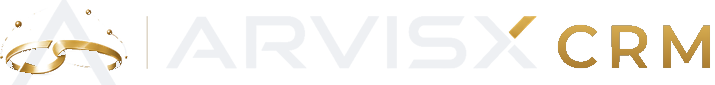
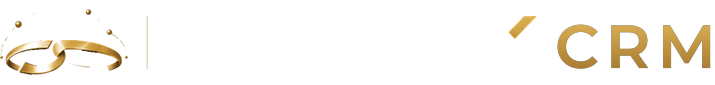
feat(marca): arte oficial para fundo escuro; protótipo de ícones (hoje x propostas)

diff --git a/docs/arvisx/prototipo/telas/icones.html b/docs/arvisx/prototipo/telas/icones.html
@@ -1,0 +1,200 @@
+<!doctype html>
+<html lang="pt-BR">
+<head>
+<meta charset="utf-8">
+<meta name="viewport" content="width=device-width, initial-scale=1">
+<title>Ícones: hoje × propostas</title>
+<meta name="grupo" content="Entrada">
+<meta name="ordem" content="1">
+<link rel="preconnect" href="https://fonts.googleapis.com">
+<link rel="stylesheet" href="https://fonts.googleapis.com/css2?family=Archivo:wdth,wght@100..125,500..800&family=JetBrains+Mono:wght@400;500;600&family=Manrope:wght@400;500;600;700;800&display=swap">
+<link rel="stylesheet" href="https://unpkg.com/@phosphor-icons/web@2.1.1/src/regular/style.css">
+<link rel="stylesheet" href="https://unpkg.com/@phosphor-icons/web@2.1.1/src/fill/style.css">
+<link rel="stylesheet" href="https://unpkg.com/@phosphor-icons/web@2.1.1/src/duotone/style.css">
+<link rel="stylesheet" href="../tokens.css">
+<style>
+  body { padding: 32px; }
+  h1 { font-family: var(--display); font-stretch: 112%; font-weight: 650; letter-spacing: -.03em; font-size: 28px; margin-bottom: 6px; }
+  .intro { color: var(--apoio); max-width: 70ch; margin-bottom: 28px; }
+  .bloco { margin-bottom: 40px; }
+  .bloco > h2 { font-family: var(--display); font-stretch: 108%; font-weight: 620; font-size: 18px; letter-spacing: -.02em; margin-bottom: 4px; }
+  .bloco > p { color: var(--apoio); font-size: 13px; margin-bottom: 14px; max-width: 80ch; }
+  .opcoes { display: grid; grid-template-columns: repeat(auto-fit, minmax(260px, 1fr)); gap: 14px; }
+  .opcao { border: 1px solid var(--linha); border-radius: var(--r-lg); overflow: hidden; background: var(--painel); }
+  .opcao > header { display: flex; align-items: center; gap: 8px; padding: 10px 14px; border-bottom: 1px solid var(--linha); font: 600 10.5px/1 var(--mono); letter-spacing: .12em; text-transform: uppercase; color: var(--apoio); }
+  .opcao > header b { color: var(--navy); font-family: var(--sans); text-transform: none; letter-spacing: 0; font-size: 13px; }
+  .opcao > header .tag { margin-left: auto; }
+  .amostra { padding: 14px; }
+
+  /* menu lateral (fundo navy) */
+  .menu { background: var(--navy); border-radius: 10px; padding: 10px; width: 100%; }
+  .menu .g { font: 500 10.5px/1 var(--mono); letter-spacing: .14em; text-transform: uppercase; color: #6c7586; padding: 6px 10px 8px; }
+  .menu a { display: flex; align-items: center; gap: 10px; height: 32px; padding: 0 10px; border-radius: 6px; color: #aab2c0; font-weight: 500; font-size: 14px; position: relative; }
+  .menu a i { font-size: 18px; }
+  .menu a .cont { margin-left: auto; min-width: 20px; height: 20px; padding: 0 6px; border-radius: 10px; background: var(--sinal); color: #fff; font: 600 11px/20px var(--mono); text-align: center; }
+  .menu a.ativo { background: rgba(212,175,55,.10); color: var(--ouro-claro); }
+  .menu a.ativo::before { content: ""; position: absolute; left: -10px; top: 7px; bottom: 7px; width: 2px; background: var(--ouro); border-radius: 0 2px 2px 0; }
+  /* hoje */
+  .m-hoje a i { color: #7e8797; } .m-hoje a.ativo i { color: var(--ouro); }
+  /* A: ícones claros */
+  .m-a a i { color: #d8dce3; } .m-a a.ativo i { color: var(--ouro); } .m-a a { color: #d8dce3; }
+  /* B: ícones em ouro suave, texto claro */
+  .m-b a i { color: #e9cb62; opacity: .85; } .m-b a.ativo i { color: var(--ouro); opacity: 1; } .m-b a { color: #d8dce3; }
+  /* C: ícone duotone (preenchimento ouro 20%) */
+  .m-c a i { color: #e0bc45; } .m-c a { color: #d8dce3; } .m-c a.ativo i { color: var(--ouro); }
+  .m-c a.ativo { background: rgba(212,175,55,.14); }
+
+  /* cartões de hub (fundo claro) */
+  .hub { display: grid; gap: 10px; }
+  .hubc { display: flex; gap: 12px; padding: 12px; border: 1px solid var(--linha); border-radius: 12px; background: var(--painel); }
+  .hubc .ic { width: 38px; height: 38px; border-radius: 10px; display: grid; place-items: center; font-size: 19px; flex: none; }
+  .hubc h3 { font-size: 14px; font-weight: 700; margin-bottom: 2px; }
+  .hubc p { color: var(--apoio); font-size: 12.5px; line-height: 1.4; }
+  .h-hoje .ic { background: var(--navy); color: var(--ouro); }
+  .h-a .ic { background: var(--ouro-suave); color: var(--ouro-escuro); border: 1px solid #ecd9a0; }
+  .h-b .ic { background: var(--ouro); color: var(--navy); }
+  .h-c .ic { background: #e8f1fb; color: var(--sinal); }
+  .h-c .hubc:nth-child(2) .ic { background: var(--ouro-suave); color: var(--ouro-escuro); }
+  .h-c .hubc:nth-child(3) .ic { background: #e6f4ec; color: var(--ok); }
+
+  /* barra de cima + barra inferior */
+  .topo-mini { display: flex; align-items: center; gap: 4px; padding: 8px 10px; border: 1px solid var(--linha); border-radius: 10px; background: var(--painel); }
+  .topo-mini .ic { width: 36px; height: 36px; border-radius: 6px; display: grid; place-items: center; font-size: 20px; position: relative; }
+  .topo-mini .ic .cont { position: absolute; top: 5px; right: 5px; min-width: 16px; height: 16px; padding: 0 4px; border-radius: 8px; background: var(--sinal); color: #fff; font: 600 10px/16px var(--mono); }
+  .topo-mini .busca { flex: 1; display: flex; align-items: center; gap: 8px; height: 36px; padding: 0 12px; border-radius: 10px; border: 1px solid var(--linha); color: var(--fraco); font-size: 13px; }
+  .t-hoje .ic { color: var(--apoio); } .t-hoje .busca i { color: var(--fraco); }
+  .t-a .ic { color: var(--navy); } .t-a .busca i { color: var(--navy); }
+  .t-b .ic { color: var(--ouro-escuro); } .t-b .busca i { color: var(--ouro-escuro); }
+  .inferior { display: grid; grid-template-columns: repeat(5, 1fr); background: var(--navy); border-radius: 10px; padding: 8px 4px; margin-top: 10px; }
+  .inferior a { display: flex; flex-direction: column; align-items: center; gap: 3px; color: #7e8797; font: 600 10px/1 var(--sans); }
+  .inferior a i { font-size: 22px; }
+  .inferior a.ativo { color: var(--ouro); }
+  .i-a a { color: #d8dce3; } .i-a a.ativo { color: var(--ouro); }
+  .i-b a { color: #c9cfda; } .i-b a i { color: #e9cb62; } .i-b a.ativo { color: var(--ouro); } .i-b a.ativo i { color: var(--ouro); }
+
+  /* ícones de estado nas telas claras (botões, etiquetas, vazios) */
+  .estado { display: flex; flex-wrap: wrap; gap: 8px; align-items: center; }
+  .e-hoje .elo { border-color: var(--ouro); color: var(--ouro-escuro); }
+
+  /* ícone do app */
+  .apps { display: flex; gap: 14px; align-items: flex-end; flex-wrap: wrap; }
+  .app { text-align: center; font: 500 11px/1.4 var(--mono); color: var(--apoio); }
+  .app .q { width: 72px; height: 72px; border-radius: 18px; display: grid; place-items: center; margin: 0 auto 8px; box-shadow: 0 8px 20px -10px rgba(15,19,26,.5); }
+  .app .q img { width: 64px; height: auto; }
+  .app .q svg { width: 52px; height: 52px; }
+</style>
+</head>
+<body>
+  <h1>Ícones: hoje × propostas</h1>
+  <p class="intro">O que o cliente vê de ícone no CRM: menu lateral, barra de cima, barra do celular, cartões dos hubs, ícones de estado nas telas claras e o ícone do app. Em cada bloco, a coluna "hoje" é o que está no ar; as outras são opções. Escolha uma por bloco (pode misturar).</p>
+
+  <section class="bloco">
+    <h2>1. Menu lateral (fundo navy)</h2>
+    <p>Hoje os ícones ficam em cinza-azulado (#7e8797) sobre o navy: somem. As opções clareiam o ícone e deixam o ouro só para o item ativo, ou põem ouro em todos.</p>
+    <div class="opcoes">
+      <div class="opcao"><header><b>Hoje</b><span class="tag">cinza #7e8797</span></header><div class="amostra"><div class="menu m-hoje">
+        <div class="g">Atendimento</div>
+        <a class="ativo"><i class="ph ph-tray"></i>Inbox<span class="cont">3</span></a><a><i class="ph ph-clock-countdown"></i>Radar</a><a><i class="ph ph-calendar-blank"></i>Agenda</a><a><i class="ph ph-file-text"></i>Respostas rápidas</a>
+        <div class="g">CRM</div><a><i class="ph ph-kanban"></i>Funis</a><a><i class="ph ph-users"></i>Contatos</a><a><i class="ph ph-list-checks"></i>Tarefas</a>
+      </div></div></div>
+      <div class="opcao"><header><b>A · Ícones claros</b><span class="tag ouro">recomendada</span></header><div class="amostra"><div class="menu m-a">
+        <div class="g">Atendimento</div>
+        <a class="ativo"><i class="ph-fill ph-tray"></i>Inbox<span class="cont">3</span></a><a><i class="ph ph-clock-countdown"></i>Radar</a><a><i class="ph ph-calendar-blank"></i>Agenda</a><a><i class="ph ph-file-text"></i>Respostas rápidas</a>
+        <div class="g">CRM</div><a><i class="ph ph-kanban"></i>Funis</a><a><i class="ph ph-users"></i>Contatos</a><a><i class="ph ph-list-checks"></i>Tarefas</a>
+      </div></div></div>
+      <div class="opcao"><header><b>B · Ícones em ouro</b><span class="tag">texto claro</span></header><div class="amostra"><div class="menu m-b">
+        <div class="g">Atendimento</div>
+        <a class="ativo"><i class="ph-fill ph-tray"></i>Inbox<span class="cont">3</span></a><a><i class="ph ph-clock-countdown"></i>Radar</a><a><i class="ph ph-calendar-blank"></i>Agenda</a><a><i class="ph ph-file-text"></i>Respostas rápidas</a>
+        <div class="g">CRM</div><a><i class="ph ph-kanban"></i>Funis</a><a><i class="ph ph-users"></i>Contatos</a><a><i class="ph ph-list-checks"></i>Tarefas</a>
+      </div></div></div>
+      <div class="opcao"><header><b>C · Duotone em ouro</b><span class="tag">traço + fundo 20%</span></header><div class="amostra"><div class="menu m-c">
+        <div class="g">Atendimento</div>
+        <a class="ativo"><i class="ph-duotone ph-tray"></i>Inbox<span class="cont">3</span></a><a><i class="ph-duotone ph-clock-countdown"></i>Radar</a><a><i class="ph-duotone ph-calendar-blank"></i>Agenda</a><a><i class="ph-duotone ph-file-text"></i>Respostas rápidas</a>
+        <div class="g">CRM</div><a><i class="ph-duotone ph-kanban"></i>Funis</a><a><i class="ph-duotone ph-users"></i>Contatos</a><a><i class="ph-duotone ph-list-checks"></i>Tarefas</a>
+      </div></div></div>
+    </div>
+  </section>
+
+  <section class="bloco">
+    <h2>2. Cartões dos hubs (Ver tudo em CRM / IA / Análise / Configurações)</h2>
+    <p>Hoje cada cartão tem uma caixa navy com o ícone em ouro: pesa na tela clara. As opções clareiam a caixa.</p>
+    <div class="opcoes">
+      <div class="opcao"><header><b>Hoje</b><span class="tag">caixa navy</span></header><div class="amostra hub h-hoje">
+        <div class="hubc"><span class="ic"><i class="ph ph-kanban"></i></span><div><h3>Funis</h3><p>Seus funis de venda — clique em um para abrir o quadro de clientes.</p></div></div>
+        <div class="hubc"><span class="ic"><i class="ph ph-robot"></i></span><div><h3>Agentes</h3><p>Quem atende por você: instruções, modelo, ferramentas e publicação.</p></div></div>
+        <div class="hubc"><span class="ic"><i class="ph ph-chart-bar"></i></span><div><h3>Desempenho</h3><p>Funil e performance por atendente nos últimos 30 dias.</p></div></div>
+      </div></div>
+      <div class="opcao"><header><b>A · Caixa ouro-suave</b><span class="tag ouro">recomendada</span></header><div class="amostra hub h-a">
+        <div class="hubc"><span class="ic"><i class="ph ph-kanban"></i></span><div><h3>Funis</h3><p>Seus funis de venda — clique em um para abrir o quadro de clientes.</p></div></div>
+        <div class="hubc"><span class="ic"><i class="ph ph-robot"></i></span><div><h3>Agentes</h3><p>Quem atende por você: instruções, modelo, ferramentas e publicação.</p></div></div>
+        <div class="hubc"><span class="ic"><i class="ph ph-chart-bar"></i></span><div><h3>Desempenho</h3><p>Funil e performance por atendente nos últimos 30 dias.</p></div></div>
+      </div></div>
+      <div class="opcao"><header><b>B · Caixa ouro cheio</b><span class="tag">ícone navy</span></header><div class="amostra hub h-b">
+        <div class="hubc"><span class="ic"><i class="ph ph-kanban"></i></span><div><h3>Funis</h3><p>Seus funis de venda — clique em um para abrir o quadro de clientes.</p></div></div>
+        <div class="hubc"><span class="ic"><i class="ph ph-robot"></i></span><div><h3>Agentes</h3><p>Quem atende por você: instruções, modelo, ferramentas e publicação.</p></div></div>
+        <div class="hubc"><span class="ic"><i class="ph ph-chart-bar"></i></span><div><h3>Desempenho</h3><p>Funil e performance por atendente nos últimos 30 dias.</p></div></div>
+      </div></div>
+      <div class="opcao"><header><b>C · Cor por grupo</b><span class="tag">azul CRM · ouro IA · verde análise</span></header><div class="amostra hub h-c">
+        <div class="hubc"><span class="ic"><i class="ph ph-kanban"></i></span><div><h3>Funis</h3><p>Seus funis de venda — clique em um para abrir o quadro de clientes.</p></div></div>
+        <div class="hubc"><span class="ic"><i class="ph ph-robot"></i></span><div><h3>Agentes</h3><p>Quem atende por você: instruções, modelo, ferramentas e publicação.</p></div></div>
+        <div class="hubc"><span class="ic"><i class="ph ph-chart-bar"></i></span><div><h3>Desempenho</h3><p>Funil e performance por atendente nos últimos 30 dias.</p></div></div>
+      </div></div>
+    </div>
+  </section>
+
+  <section class="bloco">
+    <h2>3. Barra de cima e barra do celular</h2>
+    <p>Sino, idioma, tema, lupa e as abas de baixo. Hoje ficam em cinza médio.</p>
+    <div class="opcoes">
+      <div class="opcao"><header><b>Hoje</b></header><div class="amostra">
+        <div class="topo-mini t-hoje"><span class="busca"><i class="ph ph-magnifying-glass"></i>Buscar...</span><span class="ic"><i class="ph ph-bell"></i><span class="cont">4</span></span><span class="ic" style="font:700 11.5px var(--mono)">PT</span><span class="ic"><i class="ph ph-sun"></i></span></div>
+        <div class="inferior i-hoje"><a class="ativo"><i class="ph-fill ph-tray"></i>Inbox</a><a><i class="ph ph-kanban"></i>Funis</a><a><i class="ph ph-calendar-blank"></i>Agenda</a><a><i class="ph ph-chart-bar"></i>Desempenho</a><a><i class="ph ph-dots-three-outline"></i>Mais</a></div>
+      </div></div>
+      <div class="opcao"><header><b>A · Navy em cima, claro embaixo</b><span class="tag ouro">recomendada</span></header><div class="amostra">
+        <div class="topo-mini t-a"><span class="busca"><i class="ph ph-magnifying-glass"></i>Buscar...</span><span class="ic"><i class="ph ph-bell"></i><span class="cont">4</span></span><span class="ic" style="font:700 11.5px var(--mono)">PT</span><span class="ic"><i class="ph ph-sun"></i></span></div>
+        <div class="inferior i-a"><a class="ativo"><i class="ph-fill ph-tray"></i>Inbox</a><a><i class="ph ph-kanban"></i>Funis</a><a><i class="ph ph-calendar-blank"></i>Agenda</a><a><i class="ph ph-chart-bar"></i>Desempenho</a><a><i class="ph ph-dots-three-outline"></i>Mais</a></div>
+      </div></div>
+      <div class="opcao"><header><b>B · Ouro em cima e embaixo</b></header><div class="amostra">
+        <div class="topo-mini t-b"><span class="busca"><i class="ph ph-magnifying-glass"></i>Buscar...</span><span class="ic"><i class="ph ph-bell"></i><span class="cont">4</span></span><span class="ic" style="font:700 11.5px var(--mono)">PT</span><span class="ic"><i class="ph ph-sun"></i></span></div>
+        <div class="inferior i-b"><a class="ativo"><i class="ph-fill ph-tray"></i>Inbox</a><a><i class="ph ph-kanban"></i>Funis</a><a><i class="ph ph-calendar-blank"></i>Agenda</a><a><i class="ph ph-chart-bar"></i>Desempenho</a><a><i class="ph ph-dots-three-outline"></i>Mais</a></div>
+      </div></div>
+    </div>
+  </section>
+
+  <section class="bloco">
+    <h2>4. Ícones nas telas claras (botões, etiquetas, estados vazios, IA)</h2>
+    <p>Nas telas claras os ícones já acompanham a cor do texto. O que muda é o peso: regular (hoje) ou "duotone" com fundo ouro nos ícones de IA e de estado.</p>
+    <div class="opcoes">
+      <div class="opcao"><header><b>Hoje</b><span class="tag">regular, cor do texto</span></header><div class="amostra estado e-hoje">
+        <button class="btn primario"><i class="ph ph-plus"></i>Novo contato</button><button class="btn secundario"><i class="ph ph-upload-simple"></i>Importar CSV</button>
+        <span class="tag ouro"><i class="ph ph-robot"></i>Agente</span><span class="tag ok"><i class="ph ph-check-circle"></i>Conectado</span><span class="tag aviso"><i class="ph ph-thermometer-cold"></i>Esfriando</span>
+        <span class="avatar ia"><i class="ph ph-robot"></i></span>
+        <div class="vazio" style="padding:12px 0 0;flex-basis:100%"><div class="elo"><i class="ph ph-chat-circle"></i></div></div>
+      </div></div>
+      <div class="opcao"><header><b>A · Duotone nos ícones de IA e estado</b><span class="tag ouro">recomendada</span></header><div class="amostra estado">
+        <button class="btn primario"><i class="ph ph-plus"></i>Novo contato</button><button class="btn secundario"><i class="ph ph-upload-simple"></i>Importar CSV</button>
+        <span class="tag ouro"><i class="ph-duotone ph-robot"></i>Agente</span><span class="tag ok"><i class="ph-duotone ph-check-circle"></i>Conectado</span><span class="tag aviso"><i class="ph-duotone ph-thermometer-cold"></i>Esfriando</span>
+        <span class="avatar ia"><i class="ph-duotone ph-robot"></i></span>
+        <div class="vazio" style="padding:12px 0 0;flex-basis:100%"><div class="elo" style="background:var(--ouro-suave)"><i class="ph-duotone ph-chat-circle"></i></div></div>
+      </div></div>
+      <div class="opcao"><header><b>B · Preenchidos (fill)</b></header><div class="amostra estado">
+        <button class="btn primario"><i class="ph-fill ph-plus-circle"></i>Novo contato</button><button class="btn secundario"><i class="ph-fill ph-upload-simple"></i>Importar CSV</button>
+        <span class="tag ouro"><i class="ph-fill ph-robot"></i>Agente</span><span class="tag ok"><i class="ph-fill ph-check-circle"></i>Conectado</span><span class="tag aviso"><i class="ph-fill ph-thermometer-cold"></i>Esfriando</span>
+        <span class="avatar ia"><i class="ph-fill ph-robot"></i></span>
+        <div class="vazio" style="padding:12px 0 0;flex-basis:100%"><div class="elo"><i class="ph-fill ph-chat-circle"></i></div></div>
+      </div></div>
+    </div>
+  </section>
+
+  <section class="bloco">
+    <h2>5. Ícone do app (celular, aba do navegador)</h2>
+    <p>Hoje o favicon é o "A" desenhado em vetor sobre fundo claro. Opções com o símbolo oficial.</p>
+    <div class="apps">
+      <div class="app"><div class="q" style="background:#f7f6f2;border:1px solid var(--linha)"><svg viewBox="0 0 216 216"><path fill="#0f131a" fill-rule="evenodd" d="M108 10L198 206H156L140 170H76L60 206H18Z M108 78L84 134H132Z"/><path fill="#d4af37" fill-rule="evenodd" d="M70 120c-38 0-68 13-68 30s30 30 68 30 68-13 68-30-30-30-68-30Zm0 13c30 0 53 8 53 17s-23 17-53 17-53-8-53-17 23-17 53-17ZM146 130c-38 0-68 13-68 30s30 30 68 30 68-13 68-30-30-30-68-30Zm0 13c30 0 53 8 53 17s-23 17-53 17-53-8-53-17 23-17 53-17Z"/></svg></div>hoje · vetor</div>
+      <div class="app"><div class="q" style="background:#0f131a"><img src="../marca/arvisx-simbolo-oficial-escuro.png" alt=""></div>A · navy</div>
+      <div class="app"><div class="q" style="background:#d4af37"><img src="../marca/arvisx-simbolo-oficial.png" alt=""></div>B · ouro</div>
+      <div class="app"><div class="q" style="background:#f7f6f2;border:1px solid var(--linha)"><img src="../marca/arvisx-simbolo-oficial.png" alt=""></div>C · claro</div>
+    </div>
+  </section>
+</body>
+</html>

diff --git a/docs/arvisx/prototipo/index.html b/docs/arvisx/prototipo/index.html
@@ -40,11 +40,12 @@
   <div class="cab">
     <div style="display:flex;align-items:center;gap:10px;margin-bottom:12px"><img src="marca/arvisx-simbolo-branco.png" alt="" style="height:28px;margin:0"><b style="font-family:Archivo;font-stretch:118%;font-weight:700;letter-spacing:.14em;font-size:15px;color:#fff">ARVISX<em style="font-style:normal;color:#d4af37;font-weight:600;margin-left:4px">CRM</em></b></div>
     <strong>Protótipo de redesign do CRM</strong>
-    <span>69 telas · só visual, conteúdo igual ao app</span>
+    <span>70 telas · só visual, conteúdo igual ao app</span>
   </div>
   <nav>
   <h2>Entrada</h2>
   <ul>
+    <li><a href="#icones" data-arquivo="icones.html">Ícones: hoje × propostas<small></small></a></li>
     <li><a href="#login" data-arquivo="login.html">Entrar<small>/login</small></a></li>
     <li><a href="#onboarding-welcome" data-arquivo="onboarding-welcome.html">Seu negócio<small>/onboarding/welcome</small></a></li>
     <li><a href="#onboarding-whatsapp" data-arquivo="onboarding-whatsapp.html">O telefone dele<small>/onboarding/connect-whatsapp</small></a></li>
